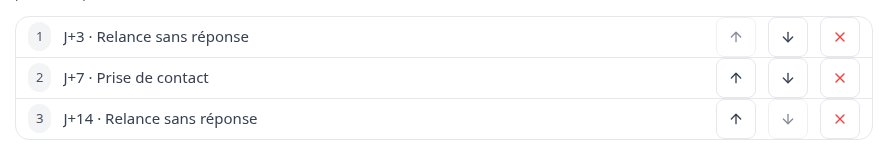
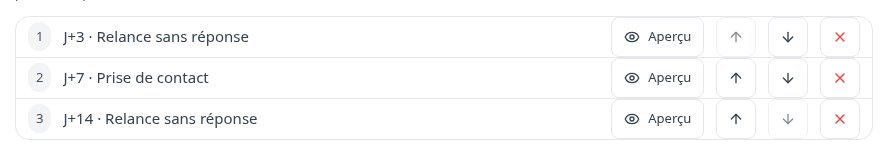
CRM-125 T3, complément : les images du manuel §16.3 — le texte citait l'aperçu des paliers sans image, et verify-manual était rouge (166/174) ; quatre images (un palier déplié sur le jeu d'exemple, « Paliers » et « Prévisualiser la séquence », la séquence entière et « Fermer l'aperçu », l'échec du r

diff --git a/e2e/manuel/14-16-modeles-signatures-sequences.spec.ts b/e2e/manuel/14-16-modeles-signatures-sequences.spec.ts
@@ -96,6 +96,48 @@ test('les séquences : la liste, une nouvelle, les paliers', async ({ page }) =>
 	await illustrer(page, { chapitre: SEQUENCES, section: 'changer-l-ordre-des-paliers', nom: 'paliers', cibles: [fiche.getByTestId('ligne-palier').first(), fiche.getByTestId('ligne-palier').last()] })
 })
 
+// @spec CRM-125 (docs/BACKLOG.md) — tranche T3 : les images du §16.3, l'aperçu des paliers sur le jeu d'exemple
+//       (docs/SPEC-modeles-emails.md §14.5 ; docs/manual.md §16.3)
+// L'administratrice du seed n'a aucune identité d'envoi : la mention de l'expéditeur fictif est donc à l'écran. L'échec du
+// rendu est simulé sur la seule route de la fonction, comme au chapitre 18 : rien n'est écrit.
+test('les séquences : l’aperçu d’un palier, de la séquence entière, et son échec', async ({ page }) => {
+	await connecterAvecLeLabs(page, ADMIN)
+	await page.goto('/reglages/sequences-relance')
+	await page.getByTestId('ligne-sequence').filter({ hasText: 'Relance en trois temps' }).getByTestId('modifier-sequence').click()
+	const fiche = page.getByTestId('fiche-sequence')
+	const lignes = fiche.getByTestId('ligne-palier')
+	await expect(lignes).toHaveCount(3)
+	// Les aperçus dépassent la fenêtre de 900 px : elle est agrandie le temps de ces images (comme au chapitre 14).
+	await page.setViewportSize({ width: 1440, height: 1600 })
+
+	await lignes.nth(0).getByTestId('apercu-palier').click()
+	const bloc = lignes.nth(0).getByTestId('apercu-palier-bloc')
+	await expect(bloc.getByTestId('mention-donnees-exemple')).toBeVisible()
+	await expect(bloc.getByTestId('apercu-palier-rendu-objet')).toBeVisible()
+	await illustrer(page, { chapitre: SEQUENCES, section: 'previsualiser-les-paliers-sur-des-donnees-d-exemple', nom: 'apercu-d-un-palier', cibles: [lignes.nth(0).getByTestId('apercu-palier'), bloc] })
+	await lignes.nth(0).getByTestId('apercu-palier').click()
+
+	const ouvrir = fiche.getByTestId('apercu-sequence-ouvrir')
+	await illustrer(page, { chapitre: SEQUENCES, section: 'previsualiser-les-paliers-sur-des-donnees-d-exemple', nom: 'previsualiser-la-sequence', cibles: [fiche.getByRole('heading', { name: 'Paliers' }), ouvrir] })
+	await ouvrir.click()
+	const panneau = page.getByTestId('apercu-sequence')
+	await expect(panneau.getByTestId('apercu-sequence-rendu')).toHaveCount(3)
+	await illustrer(page, { chapitre: SEQUENCES, section: 'previsualiser-les-paliers-sur-des-donnees-d-exemple', nom: 'apercu-de-la-sequence', cibles: [panneau] })
+	await panneau.getByTestId('fermer-apercu-sequence').click()
+
+	// L'aperçu déjà rendu est gardé : la fiche est rouverte pour que le clic redemande, et échoue.
+	await page.route('**/rest/v1/rpc/render_mail_template_sample', (route) => route.fulfill({ status: 500, contentType: 'application/json', body: '{"message":"erreur simulée"}' }))
+	await page.reload()
+	await page.getByTestId('ligne-sequence').filter({ hasText: 'Relance en trois temps' }).getByTestId('modifier-sequence').click()
+	await expect(lignes).toHaveCount(3)
+	await lignes.nth(0).getByTestId('apercu-palier').click()
+	const reessayer = page.getByRole('button', { name: 'Réessayer' }).first()
+	await expect(reessayer).toBeVisible()
+	await illustrer(page, { chapitre: SEQUENCES, section: 'previsualiser-les-paliers-sur-des-donnees-d-exemple', nom: 'apercu-en-echec', cibles: [reessayer.locator('xpath=ancestor::*[@role="alert"][1]')] })
+	await page.unrouteAll({ behavior: 'wait' })
+	await page.setViewportSize({ width: 1440, height: 900 })
+})
+
 test('armer puis interrompre une relance sur une affaire figée', async ({ page, request }) => {
 	// Armer n'écrit rien dans le fil (migration 0119) ; un tic du planificateur entre l'armement et l'interruption
 	// mettrait pourtant un premier palier en file : il est retiré avec l'inscription.

diff --git a/docs/manual.md b/docs/manual.md
@@ -3515,6 +3515,12 @@ Pour lire ce qu'une cadence enverra sans quitter la fiche, deux boutons :
 - **« Prévisualiser la séquence »**, à droite du titre « Paliers », montre tous les paliers l'un sous l'autre, chacun
   titré par son rang et ses deux délais : « Palier 2 · J+7 — J+10 depuis l'armement ». « Fermer l'aperçu » le referme.
 
+![« Aperçu » sur la ligne d'un palier : l'objet et le corps de son modèle, sur les données d'exemple](manuel/images/enchainer-des-relances-les-sequences/apercu-d-un-palier.jpg)
+
+![Le titre « Paliers » et le bouton « Prévisualiser la séquence »](manuel/images/enchainer-des-relances-les-sequences/previsualiser-la-sequence.jpg)
+
+![L'aperçu de la séquence : chaque palier, son rang et ses deux délais, puis « Fermer l'aperçu »](manuel/images/enchainer-des-relances-les-sequences/apercu-de-la-sequence.jpg)
+
 **LES DONNÉES SONT FICTIVES**, et l'écran le dit au-dessus de chaque aperçu : « Aperçu avec des données d'exemple :
 M. Dupont, ENTREPRISE INC, Projet exemple. » L'affaire et le contact sont toujours les mêmes, avec un montant de
 12500.00 EUR et une prochaine action datée. Aucune variable ne reste vide. Pour voir un modèle appliqué à une **vraie**
@@ -3527,6 +3533,8 @@ n'avez pas d'identité d'envoi par défaut : l'expéditeur est fictif. »
 
 **Rien n'est calculé avant votre clic**, et un modèle employé par deux paliers n'est rendu qu'une fois. Si le rendu
 échoue, « Réessayer » le redemande ; un modèle devenu illisible est signalé en une phrase.
+
+![Un aperçu qui n'a pas pu être rendu, et « Réessayer »](manuel/images/enchainer-des-relances-les-sequences/apercu-en-echec.jpg)
 
 ### 16.4 Supprimer une séquence
 

diff --git a/docs/BACKLOG.md b/docs/BACKLOG.md
@@ -18083,6 +18083,11 @@ Question du connecteur : sans objet (décision 809).
       régression ; captures `docs/captures/CRM-125/` observées ; manuel §16.3 (et §16.7 corrigé) ; changelog.
       **Mesure** : la lectrice n'ouvre pas la fiche (« Modifier » éteint, `CRM-093`), donc pas l'aperçu ; le §14.5 de
       la spécification, qui disait le contraire, est corrigé ; la fonction lui reste lisible (preuve API).
+      *Complété le 2026-11-02 par la session de livraison* : le §16.3 du manuel citait l'aperçu sans aucune image, et
+      `scripts/verify-manual.sh` était rouge (166/174, huit « élément cité sans image »). Quatre images ajoutées par
+      `e2e/manuel/14-16-modeles-signatures-sequences.spec.ts` (un palier déplié, « Paliers » et « Prévisualiser la
+      séquence », la séquence entière, l'échec et « Réessayer », simulé sur la seule route de la fonction) ; « paliers »
+      renouvelée (les boutons « Aperçu ») ; chapitre 14-16 5/5 ; `verify-manual` **167/167**.
 - [P] **T4 — livraison en production et constat** : migration `0145` appliquée par la fenêtre (§3), webapp de `main` ;
       constat du responsable : un aperçu de palier et l'aperçu de la séquence.
 
